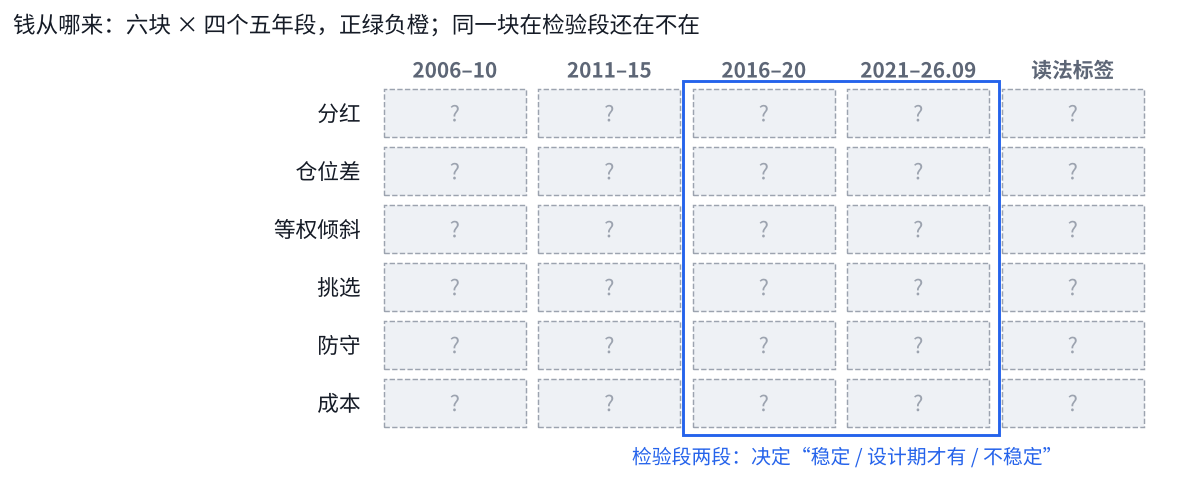
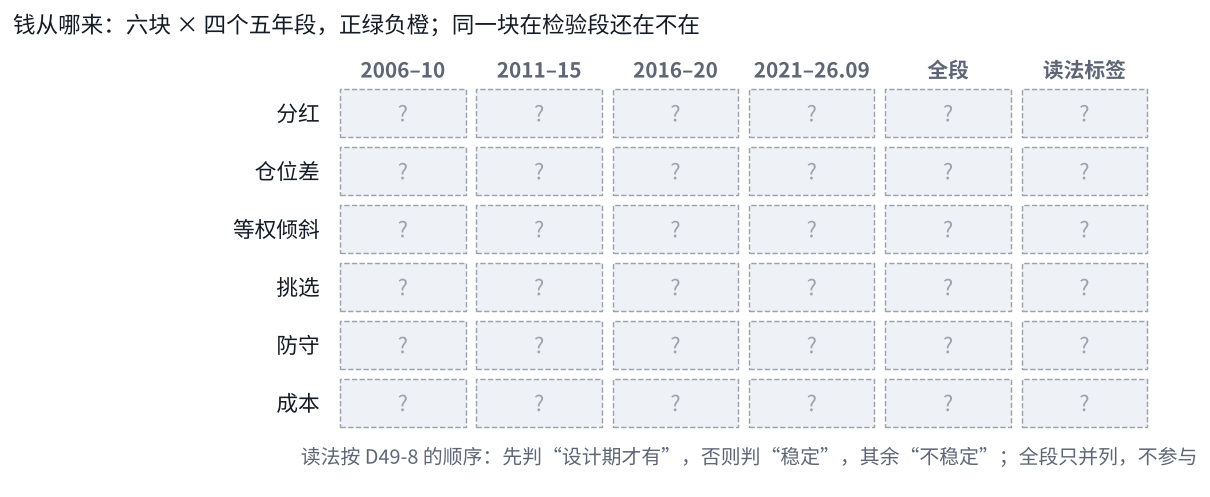
v6 一次性检验报告骨架 0.3：按 Reviewer #387 四条 Should-fix 改
- 三版结论句互斥（D50-2）；第 3 节读法按 D49-8 顺序；加瀑布图空位、全段列
- 补回：逐年、名额拆分与美股前 3 − SPX、重新起步与连续运行差异、随机每月比例、三个影子、两条暂停线、欧洲“支持”定义
- o4 检验段不再画高度 12 的占位柱；连续性版组件标题改正
- 合并 claude/v6-health-final（体检 1.3）

Claude-Session: https://claude.ai/code/session_01D95uZGmhdA65bQR8bYU8L8

diff --git a/docs/artifact/v6-oneshot/index.html b/docs/artifact/v6-oneshot/index.html
@@ -1660,7 +1660,7 @@ ol.flow.f-compact .fl-d strong { color: var(--muted); font-weight: 600; }
 <nav class="toc" aria-label="目录">
   <a class="back" href="https://claude.ai/artifact/17bW2rKeeBheRFfhnjsrSU">← Owner 看板</a>
   <div class="toc-title">目录</div>
-  <ol><li class="l2"><a href="#0-开考前要齐的五件事-两件已定-三件待合入或待你批准">0. 开考前要齐的五件事</a></li><li class="l2"><a href="#1-过不过-只看检验段四条判据-结论句三版已预写">1. 过不过</a></li><li class="l2"><a href="#2-结论稳不稳-稳健性-8-项-同结构随机-能买到的池子-都只报告">2. 结论稳不稳</a></li><li class="l2"><a href="#3-钱从哪来-六块拆账按四个五年段看-每块贴-稳定-设计期才有-不稳定">3. 钱从哪来</a></li><li class="l2"><a href="#4-挑选赚的是谁-防守赚的是哪几次-看前-10-名占多少-逐次列紧张段">4. 挑选赚的是谁、防守赚的是哪几次</a></li><li class="l2"><a href="#5-和别人比-八条线-检验段为主-全段并列">5. 和别人比</a></li><li class="l2"><a href="#6-性格-2006-2026-一条线走下来-几次急跌各怎样">6. 性格</a></li><li class="l2"><a href="#7-四种行情-任意起点-全段-2006-2026">7. 四种行情、任意起点</a></li><li class="l2"><a href="#8-预测准不准-检验段逐项对账-不判过不过">8. 预测准不准</a></li><li class="l2"><a href="#9-连续性版换不换-两个条件都满足才换">9. 连续性版换不换</a></li><li class="l2"><a href="#10-接下来-按结论三级走-三条路事先写好">10. 接下来</a></li></ol>
+  <ol><li class="l2"><a href="#0-开考前要齐的六件事-两件已定-四件待合入或待你定">0. 开考前要齐的六件事</a></li><li class="l2"><a href="#1-过不过-只看检验段四条判据-结论句三版已预写">1. 过不过</a></li><li class="l2"><a href="#2-结论稳不稳-稳健性-8-项-同结构随机-能买到的池子-都只报告">2. 结论稳不稳</a></li><li class="l2"><a href="#3-钱从哪来-六块拆账按四个五年段看-每块贴-稳定-设计期才有-不稳定">3. 钱从哪来</a></li><li class="l2"><a href="#4-挑选赚的是谁-防守赚的是哪几次-看前-10-名占多少-逐次列紧张段">4. 挑选赚的是谁、防守赚的是哪几次</a></li><li class="l2"><a href="#5-和别人比-八条线-检验段为主-全段并列">5. 和别人比</a></li><li class="l2"><a href="#6-性格-2006-2026-一条线走下来-几次急跌各怎样">6. 性格</a></li><li class="l2"><a href="#7-四种行情-任意起点-全段-2006-2026">7. 四种行情、任意起点</a></li><li class="l2"><a href="#8-预测准不准-检验段逐项对账-不判过不过">8. 预测准不准</a></li><li class="l2"><a href="#9-连续性版换不换-两个条件都满足才换">9. 连续性版换不换</a></li><li class="l2"><a href="#10-接下来-按结论三级走-三条路事先写好">10. 接下来</a></li></ol>
 </nav>
 <main>
 <header class="top">
@@ -1671,12 +1671,13 @@ ol.flow.f-compact .fl-d strong { color: var(--muted); font-weight: 600; }
 <section class="intro status"><p class="kv"><span class="kv-k"><strong>项目愿景</strong></span><span class="kv-v">　在动态周期内，从多类资产里选出 Top N 强势 ETF 轮动持有，获得超额收益、稳定跑赢被动基准，同时把回撤控制住。</span></p>
 <div class="hero"><div class="hero-g n1"><div class="hz verdict2 t-bad"><div class="hz-l">结论</div><div class="hz-hd">跑完从三版预写结论句里选一版，只填数：通过、通过（有条件）、不通过。</div></div><div class="hz ask"><div class="hz-l">需要你</div><div class="hq-b">批准一次性检验（2016-01 → 2026-09，只跑一次）。开考前还要 D49、D50 和 #375、#377 合入。</div></div><div class="hz eng"><span class="eng-ok">✓</span><span class="hz-l">进度</span><span class="eng-d">骨架：11 节的结构、图和读法已定；还没开考，页面上没有任何 2016 年以后的数字。</span></div></div></div>
 
-<nav aria-label="故事主线" class="sl-spine"><div class="sl-sp-h">这份报告的故事主线：从“过没过”读到“钱从哪来、在检验段还在不在”</div><div class="sl-sp-r"><a class="sl-sp-i t-ok" href="#sec-0-开考前要齐的五件事-两件已定-三件待合入或待你批准" title="什么都齐了才能跑？"><span class="sl-sp-k"></span><span class="sl-sp-s">开考前提</span><span class="sl-sp-st">在做</span></a><a class="sl-sp-i t-ok" href="#sec-1-过不过-只看检验段四条判据-结论句三版已预写" title="一次性检验过没过？"><span class="sl-sp-k"></span><span class="sl-sp-s">过不过</span><span class="sl-sp-st">待填</span></a><a class="sl-sp-i t-ok" href="#sec-2-结论稳不稳-稳健性-8-项-同结构随机-能买到的池子-都只报告" title="换个成本、晚一天下单、去掉最赚钱的几只，结论还在不在？"><span class="sl-sp-k"></span><span class="sl-sp-s">稳不稳</span><span class="sl-sp-st">待填</span></a><a class="sl-sp-i t-ok" href="#sec-3-钱从哪来-六块拆账按四个五年段看-每块贴-稳定-设计期才有-不稳定" title="v6 赚的是挑选、防守，还是美股放 60%、人民币贬值？"><span class="sl-sp-k"></span><span class="sl-sp-s">钱从哪来</span><span class="sl-sp-st">待填</span></a><a class="sl-sp-i t-ok" href="#sec-4-挑选赚的是谁-防守赚的是哪几次-看前-10-名占多少-逐次列紧张段" title="挑选的钱是不是集中在几只上？防守在哪几次真帮上了忙？"><span class="sl-sp-k"></span><span class="sl-sp-s">挑选与防守</span><span class="sl-sp-st">待填</span></a><a class="sl-sp-i t-ok" href="#sec-5-和别人比-八条线-检验段为主-全段并列" title="检验段里 v6 和 A1、A2、K2A、现行配置、基准比，站在哪？"><span class="sl-sp-k"></span><span class="sl-sp-s">和别人比</span><span class="sl-sp-st">待填</span></a><a class="sl-sp-i t-ok" href="#sec-6-性格-2006-2026-一条线走下来-几次急跌各怎样" title="一直拿着的人，20 年里会经历什么？"><span class="sl-sp-k"></span><span class="sl-sp-s">性格</span><span class="sl-sp-st">待填</span></a><a class="sl-sp-i t-ok" href="#sec-7-四种行情-任意起点-全段-2006-2026" title="牛熊里各赚亏多少？什么时候买进来会输？"><span class="sl-sp-k"></span><span class="sl-sp-s">行情与起点</span><span class="sl-sp-st">待填</span></a><a class="sl-sp-i t-ok" href="#sec-8-预测准不准-检验段逐项对账-不判过不过" title="事先估的每一项，检验段落在范围里吗？"><span class="sl-sp-k"></span><span class="sl-sp-s">预测</span><span class="sl-sp-st">待填</span></a><a class="sl-sp-i t-ok" href="#sec-9-连续性版换不换-两个条件都满足才换" title="挑战者在检验段赢了吗？"><span class="sl-sp-k"></span><span class="sl-sp-s">连续性版</span><span class="sl-sp-st">待填</span></a><a class="sl-sp-i t-ok" href="#sec-10-接下来-按结论三级走-三条路事先写好" title="结论出来以后做什么？"><span class="sl-sp-k"></span><span class="sl-sp-s">接下来</span><span class="sl-sp-st">待填</span></a></div></nav></section>
-<section id="sec-0-开考前要齐的五件事-两件已定-三件待合入或待你批准"><h2 id="0-开考前要齐的五件事-两件已定-三件待合入或待你批准"><span class="num">00</span>开考前要齐的五件事：两件已定，三件待合入或待你批准</h2>
-<p class="memo"><strong>D49（全段只报告）和 D50（稳健性怎么降级）已定；还差你批准、代码冻结、Dev 按 D49 备好代码。</strong></p>
-<div class="table-wrap"><div class="comp f-todos-wrap" data-lint="ref"><div class="f-td-pg"><b>2 / 5</b><span>已完成</span><span class="f-td-bar"><i class="on"></i><i class="on"></i><i class=""></i><i class=""></i><i class=""></i></span></div><div class="f-tds"><div class="f-td done"><span class="f-td-n">✓</span><div class="f-td-b"><div class="f-td-h"><b>D49 全段窗口只报告、拆账口径写死</b></div><div class="f-td-m"><span class="f-td-no">#1</span><span class="f-td-w">Reviewer</span><span class="f-td-w">Manager</span></div><div class="f-td-r">Reviewer 复核第 2 稿无问题，待合入</div></div></div><div class="f-td done"><span class="f-td-n">✓</span><div class="f-td-b"><div class="f-td-h"><b>D50 “很敏感”和“降一级”的定义</b></div><div class="f-td-m"><span class="f-td-no">#2</span><span class="f-td-w">Owner</span></div><div class="f-td-r">你 11-26 同意两项都选 A；待 Reviewer 核对、合入</div></div></div><div class="f-td"><span class="f-td-n">3</span><div class="f-td-b"><div class="f-td-h"><b>批准一次性检验</b></div><div class="f-td-m"><span class="f-td-no">#3</span><span class="f-td-w">Owner</span></div><div class="f-td-r">2016-01 → 2026-09，只跑一次，判定只看检验段</div></div></div><div class="f-td"><span class="f-td-n">4</span><div class="f-td-b"><div class="f-td-h"><b>#375、#377 签收合入，代码冻结</b></div><div class="f-td-m"><span class="f-td-no">#4</span><span class="f-td-w">Reviewer</span><span class="f-td-w">Manager</span></div><div class="f-td-r">等 Dev 交同结构随机和急跌仓位</div></div></div><div class="f-td"><span class="f-td-n">5</span><div class="f-td-b"><div class="f-td-h"><b>Dev 按 D49 备好代码</b></div><div class="f-td-m"><span class="f-td-no">#5</span><span class="f-td-w">Dev</span></div><div class="f-td-r">含现行配置 2006–2026 面板、A1 / A2 账本衔接</div></div></div></div></div></div>
+<nav aria-label="故事主线" class="sl-spine"><div class="sl-sp-h">这份报告的故事主线：从“过没过”读到“钱从哪来、在检验段还在不在”</div><div class="sl-sp-r"><a class="sl-sp-i t-ok" href="#sec-0-开考前要齐的六件事-两件已定-四件待合入或待你定" title="什么都齐了才能跑？"><span class="sl-sp-k"></span><span class="sl-sp-s">开考前提</span><span class="sl-sp-st">在做</span></a><a class="sl-sp-i t-ok" href="#sec-1-过不过-只看检验段四条判据-结论句三版已预写" title="一次性检验过没过？"><span class="sl-sp-k"></span><span class="sl-sp-s">过不过</span><span class="sl-sp-st">待填</span></a><a class="sl-sp-i t-ok" href="#sec-2-结论稳不稳-稳健性-8-项-同结构随机-能买到的池子-都只报告" title="换个成本、晚一天下单、去掉最赚钱的几只，结论还在不在？"><span class="sl-sp-k"></span><span class="sl-sp-s">稳不稳</span><span class="sl-sp-st">待填</span></a><a class="sl-sp-i t-ok" href="#sec-3-钱从哪来-六块拆账按四个五年段看-每块贴-稳定-设计期才有-不稳定" title="v6 赚的是挑选、防守，还是美股放 60%、人民币贬值？"><span class="sl-sp-k"></span><span class="sl-sp-s">钱从哪来</span><span class="sl-sp-st">待填</span></a><a class="sl-sp-i t-ok" href="#sec-4-挑选赚的是谁-防守赚的是哪几次-看前-10-名占多少-逐次列紧张段" title="挑选的钱是不是集中在几只上？防守在哪几次真帮上了忙？"><span class="sl-sp-k"></span><span class="sl-sp-s">挑选与防守</span><span class="sl-sp-st">待填</span></a><a class="sl-sp-i t-ok" href="#sec-5-和别人比-八条线-检验段为主-全段并列" title="检验段里 v6 和 A1、A2、K2A、现行配置、基准比，站在哪？"><span class="sl-sp-k"></span><span class="sl-sp-s">和别人比</span><span class="sl-sp-st">待填</span></a><a class="sl-sp-i t-ok" href="#sec-6-性格-2006-2026-一条线走下来-几次急跌各怎样" title="一直拿着的人，20 年里会经历什么？"><span class="sl-sp-k"></span><span class="sl-sp-s">性格</span><span class="sl-sp-st">待填</span></a><a class="sl-sp-i t-ok" href="#sec-7-四种行情-任意起点-全段-2006-2026" title="牛熊里各赚亏多少？什么时候买进来会输？"><span class="sl-sp-k"></span><span class="sl-sp-s">行情与起点</span><span class="sl-sp-st">待填</span></a><a class="sl-sp-i t-ok" href="#sec-8-预测准不准-检验段逐项对账-不判过不过" title="事先估的每一项，检验段落在范围里吗？"><span class="sl-sp-k"></span><span class="sl-sp-s">预测</span><span class="sl-sp-st">待填</span></a><a class="sl-sp-i t-ok" href="#sec-9-连续性版换不换-两个条件都满足才换" title="挑战者在检验段赢了吗？"><span class="sl-sp-k"></span><span class="sl-sp-s">连续性版</span><span class="sl-sp-st">待填</span></a><a class="sl-sp-i t-ok" href="#sec-10-接下来-按结论三级走-三条路事先写好" title="结论出来以后做什么？"><span class="sl-sp-k"></span><span class="sl-sp-s">接下来</span><span class="sl-sp-st">待填</span></a></div></nav></section>
+<section id="sec-0-开考前要齐的六件事-两件已定-四件待合入或待你定"><h2 id="0-开考前要齐的六件事-两件已定-四件待合入或待你定"><span class="num">00</span>开考前要齐的六件事：两件已定，四件待合入或待你定</h2>
+<p class="memo"><strong>D49（全段只报告）和 D50（稳健性怎么降级）已定；还差你批准、你定 D50-4、代码冻结、Dev 按 D49 备好代码。</strong></p>
+<div class="table-wrap"><div class="comp f-todos-wrap" data-lint="ref"><div class="f-td-pg"><b>2 / 6</b><span>已完成</span><span class="f-td-bar"><i class="on"></i><i class="on"></i><i class=""></i><i class=""></i><i class=""></i><i class=""></i></span></div><div class="f-tds"><div class="f-td done"><span class="f-td-n">✓</span><div class="f-td-b"><div class="f-td-h"><b>D49 全段窗口只报告、拆账口径写死</b></div><div class="f-td-m"><span class="f-td-no">#1</span><span class="f-td-w">Reviewer</span><span class="f-td-w">Manager</span></div><div class="f-td-r">Reviewer 复核第 2 稿无问题，待合入</div></div></div><div class="f-td done"><span class="f-td-n">✓</span><div class="f-td-b"><div class="f-td-h"><b>D50 “很敏感”和“降一级”的定义</b></div><div class="f-td-m"><span class="f-td-no">#2</span><span class="f-td-w">Owner</span></div><div class="f-td-r">你 11-26 同意两项都选 A；待 Reviewer 核对、合入</div></div></div><div class="f-td"><span class="f-td-n">3</span><div class="f-td-b"><div class="f-td-h"><b>批准一次性检验</b></div><div class="f-td-m"><span class="f-td-no">#3</span><span class="f-td-w">Owner</span></div><div class="f-td-r">2016-01 → 2026-09，只跑一次，判定只看检验段</div></div></div><div class="f-td"><span class="f-td-n">4</span><div class="f-td-b"><div class="f-td-h"><b>#375、#377 签收合入，代码冻结</b></div><div class="f-td-m"><span class="f-td-no">#4</span><span class="f-td-w">Reviewer</span><span class="f-td-w">Manager</span></div><div class="f-td-r">等 Dev 交同结构随机和急跌仓位</div></div></div><div class="f-td"><span class="f-td-n">5</span><div class="f-td-b"><div class="f-td-h"><b>Dev 按 D49 备好代码</b></div><div class="f-td-m"><span class="f-td-no">#5</span><span class="f-td-w">Dev</span></div><div class="f-td-r">含现行配置 2006–2026 面板、A1 / A2 账本衔接</div></div></div><div class="f-td"><span class="f-td-n">6</span><div class="f-td-b"><div class="f-td-h"><b>D50-4：有条件再遇欧洲“不支持”怎么办</b></div><div class="f-td-m"><span class="f-td-no">#6</span><span class="f-td-w">Owner</span></div><div class="f-td-r">停在有条件，或再降一级 = 不通过</div></div></div></div></div></div>
 <ul class="points">
 <li><strong>D50 定了什么</strong>：稳健性 8 项里任何一项改动后四条判据的总结论翻转，记“很敏感”；主判通过而有一项很敏感，结论是“通过（有条件）”，照常进 6 个月模拟盘，页首写明条件。</li>
+<li><strong>判定口径与连续运行</strong>：若冻结代码的检验段是 2016-01 重新起步，报告另列一行：连续运行截出的 2016 年以后那段和判定口径差多少、为什么（D49-1）。</li>
 <li><strong>成本加倍最可能触发降级</strong>：设计期成本每年约 1.5 点，判据 ④ 的余量不到这个数时，成本加倍就会让它翻转。</li>
 </ul>
 <a class="sl-next" href="#sec-1-过不过-只看检验段四条判据-结论句三版已预写"><span class="sl-nl">所以</span><span class="sl-nt">前提齐了才跑；跑完先看的，是过没过</span><span class="sl-ng">01 过不过 →</span></a>
@@ -1684,31 +1685,35 @@ ol.flow.f-compact .fl-d strong { color: var(--muted); font-weight: 600; }
 <section id="sec-1-过不过-只看检验段四条判据-结论句三版已预写"><h2 id="1-过不过-只看检验段四条判据-结论句三版已预写"><span class="num">01</span>过不过：只看检验段四条判据，结论句三版已预写</h2>
 <p class="memo"><strong>判定只看检验段 2016-01 <span class="arr">→</span> 2026-09、四条判据全部满足；全段和设计期都不参与判定（冻结稿 §5，D49-1）。</strong></p>
 <div class="table-wrap"><div class="comp comp-闸门格" data-lint="ref"><div class="comp-h">四条判据：检验段一列判定，设计期两段作参照</div><div class="gg" style="--gg-n:3"><div class="gg-r gg-hd"><span>判据</span><span class="">2006–10</span><span class="">2011–15</span><span class="gg-main">2016-01 → 2026-09</span></div><div class="gg-r"><div class="gg-k"><b>① 回撤</b><span>门槛 ≤ 40% · 事先机会 80%</span></div><div class="gg-c ok"><b class="num">−25.0%</b><em>✓ 过</em></div><div class="gg-c ok"><b class="num">−28.7%</b><em>✓ 过</em></div><div class="gg-c gg-main"><em>待填</em></div></div><div class="gg-r"><div class="gg-k"><b>② 防守保费</b><span>门槛 ≤ 4 点 · 事先机会 85%</span></div><div class="gg-c ok"><b>0.0 点</b><em>✓ 过</em></div><div class="gg-c ok"><b>1.4 点</b><em>✓ 过</em></div><div class="gg-c gg-main"><em>待填</em></div></div><div class="gg-r"><div class="gg-k"><b>③ 对 K2A</b><span>门槛 年化 ÷ 回撤高于 K2A · 事先机会 60%</span></div><div class="gg-c ok"><b>0.74 对 0.59</b><em>✓ 过</em></div><div class="gg-c no"><b>0.42 对 0.57</b><em>✗ 不过</em></div><div class="gg-c gg-main"><em>待填</em></div></div><div class="gg-r"><div class="gg-k"><b>④ 对同仓位基准</b><span>门槛 ≥ 0 · 事先机会 50%</span></div><div class="gg-c ok"><b>+5.2 点</b><em>✓ 过</em></div><div class="gg-c no"><b>−0.1 点</b><em>✗ 不过</em></div><div class="gg-c gg-main"><em>待填</em></div></div><div class="gg-r gg-tot"><div class="gg-k"><b>四条全过</b><span>门槛 全部满足才通过 · 事先机会 30%</span></div><div class="gg-c ok"><em>✓ 过</em></div><div class="gg-c no"><em>✗ 不过</em></div><div class="gg-c gg-main"><em>待填</em></div></div></div></div></div>
-<div class="table-wrap"><table class="deflist" data-lint="ref">
+<div class="table-wrap"><table>
 <thead>
 <tr>
 <th>结论</th>
-<th>预写的页首结论句（跑完选一版，只填【】）</th>
+<th>什么时候用（互斥，D50-2）</th>
+<th>预写的页首结论句（只填【】）</th>
 </tr>
 </thead>
 <tbody>
 <tr>
 <td class="k"><span class="pill good">通过</span></td>
-<td class="detail">一次性检验通过：四条判据都过；每年【X】%，比同仓位基准多【Y】点，最大回撤【Z】%。下一步 6 个月模拟盘</td>
+<td>四条都过，S1–S8 没有一项翻转</td>
+<td><b>四条判据都过；每年【X】%，比同仓位基准多【Y】点，回撤【Z】%</b></td>
 </tr>
 <tr>
 <td><span class="pill good">通过</span>（有条件）</td>
-<td class="detail"><b>通过（有条件）：四条判据都过，但对【S?】很敏感，【判据】翻转；照常进模拟盘，先盯这一项</b></td>
+<td>四条都过，至少一项翻转</td>
+<td><b>四条都过；【S?】在【判据】翻转，差【?】（每一项并列）</b></td>
 </tr>
 <tr>
 <td class="k"><span class="pill bad">不通过</span></td>
-<td class="detail">一次性检验不通过：判据【编号】没过；每年【X】%，比同仓位基准【多 / 少】【Y】点。按冻结稿如实记录并关闭</td>
+<td>四条没有全过；改完能过也不升档</td>
+<td><b>判据【编号】没过；每年【X】%，比同仓位基准【多 / 少】【Y】点</b></td>
 </tr>
 </tbody>
 </table></div>
 <ul class="points">
 <li><strong>读这块</strong>：框住的是检验段一列，只有它决定结论；左边两列是设计期参照，后五年 ③④ 已经不过。</li>
-<li><strong>不加形容词</strong>：通过版本不写“稳定跑赢”，不通过版本不写“接近通过”；差多少直接写数字。</li>
+<li><strong>不加形容词</strong>：通过版本不写“稳定跑赢”，不通过版本不写“接近通过”；差多少直接写数字。翻转只在检验段、指数池的主判上判（D50-1）。</li>
 </ul>
 <a class="sl-next" href="#sec-2-结论稳不稳-稳健性-8-项-同结构随机-能买到的池子-都只报告"><span class="sl-nl">所以</span><span class="sl-nt">过没过只是一个字；下一节看这个字稳不稳</span><span class="sl-ng">02 结论稳不稳 →</span></a>
 </section>
@@ -1765,7 +1770,7 @@ ol.flow.f-compact .fl-d strong { color: var(--muted); font-weight: 600; }
 <tr>
 <td class="k">随机</td>
 <td>同结构随机 1000 次（种子 20261122）</td>
-<td>v6 在随机分布里的百分位</td>
+<td>百分位、每月跑赢随机中位数的比例；组合和两个名额（设计期：第 96.4、54%）</td>
 <td class="r-status"><span class="pill warn">待填</span></td>
 </tr>
 <tr>
@@ -1785,7 +1790,8 @@ ol.flow.f-compact .fl-d strong { color: var(--muted); font-weight: 600; }
 </section>
 <section id="sec-3-钱从哪来-六块拆账按四个五年段看-每块贴-稳定-设计期才有-不稳定"><h2 id="3-钱从哪来-六块拆账按四个五年段看-每块贴-稳定-设计期才有-不稳定"><span class="num">03</span>钱从哪来：六块拆账按四个五年段看，每块贴“稳定 / 设计期才有 / 不稳定”</h2>
 <p class="memo"><strong>六块相加 = v6 比 BM-主多出的部分；全段只放在分段旁边，不单独引用（D49）。</strong></p>
-<figure><img alt="六块 × 四个五年段：检验段两段决定每一块是稳定、设计期才有还是不稳定" src="../../assets/v6-oneshot/o3-sources.png"/></figure>
+<figure><img alt="检验段瀑布图的空位：从 BM-主走到 v6 净，六块各加减多少" src="../../assets/v6-oneshot/o3w-waterfall.png"/></figure>
+<figure><img alt="六块 × 四个五年段 + 全段：读法按 D49-8 顺序贴标签" src="../../assets/v6-oneshot/o3-sources.png"/></figure>
 <div class="fold"><button aria-expanded="false" class="fold-h" type="button"><span aria-hidden="true" class="chev">▸</span><span>六块 × 四段的空表（跑完填数）</span></button><div class="fold-b" hidden="">
 <div class="table-wrap"><table>
 <thead>
@@ -1795,12 +1801,14 @@ ol.flow.f-compact .fl-d strong { color: var(--muted); font-weight: 600; }
 <th>2011–15</th>
 <th>2016–20</th>
 <th>2021-01 → 2026-09</th>
+<th>全段</th>
 <th class="h-take rh-concl">读法标签</th>
 </tr>
 </thead>
 <tbody>
 <tr>
 <td class="k">分红</td>
+<td>待填</td>
 <td>待填</td>
 <td>待填</td>
 <td>待填</td>
@@ -1813,10 +1821,12 @@ ol.flow.f-compact .fl-d strong { color: var(--muted); font-weight: 600; }
 <td>待填</td>
 <td>待填</td>
 <td>待填</td>
+<td>待填</td>
 <td class="c-take"><b>待填</b></td>
 </tr>
 <tr>
 <td class="k">等权倾斜</td>
+<td>待填</td>
 <td>待填</td>
 <td>待填</td>
 <td>待填</td>
@@ -1829,10 +1839,12 @@ ol.flow.f-compact .fl-d strong { color: var(--muted); font-weight: 600; }
 <td>待填</td>
 <td>待填</td>
 <td>待填</td>
+<td>待填</td>
 <td class="c-take"><b>待填</b></td>
 </tr>
 <tr>
 <td class="k">防守</td>
+<td>待填</td>
 <td>待填</td>
 <td>待填</td>
 <td>待填</td>
@@ -1845,15 +1857,17 @@ ol.flow.f-compact .fl-d strong { color: var(--muted); font-weight: 600; }
 <td>待填</td>
 <td>待填</td>
 <td>待填</td>
+<td>待填</td>
 <td class="c-take"><b>待填</b></td>
 </tr>
 </tbody>
 </table></div>
+<p class="table-note note">逐年（20 个完整自然年 + 2026 年前 9 个月）另附一张同样的表；A 股名额、美股名额各一张；美股另报“前 3 − SPX”（D48-3）和汇率层。</p>
 </div></div>
 <ul class="points">
 <li><strong>读法标签按顺序判</strong>（D49-8）：设计期为正、检验段为负或不到 0.5 点 <span class="arr">→</span> 设计期才有；否则四段至少三段同号且检验段与设计期同号 <span class="arr">→</span> 稳定；其余 <span class="arr">→</span> 不稳定。</li>
-<li><strong>汇率单独看</strong>：美股名额的人民币收益减美元收益，另报，不进合计（D49-3）。</li>
-<li><strong>图</strong>：检验段瀑布图；上面这张格子正绿负橙；A 股、美股名额各一张。</li>
+<li><strong>六块首尾相接</strong>：相加 = v6 净 − BM-主全收益；第 ③ 块减去的，就是第 ② 块终点的价格 BM-同仓位（D49-3）。</li>
+<li><strong>汇率单独看</strong>：美股名额的人民币收益减美元收益，另报，不进合计，也不进瀑布图。</li>
 </ul>
 <a class="sl-next" href="#sec-4-挑选赚的是谁-防守赚的是哪几次-看前-10-名占多少-逐次列紧张段"><span class="sl-nl">所以</span><span class="sl-nt">挑选和防守各自是哪几笔赚的？</span><span class="sl-ng">04 挑选赚的是谁、防守赚的是哪几次 →</span></a>
 </section>
@@ -2096,7 +2110,7 @@ ol.flow.f-compact .fl-d strong { color: var(--muted); font-weight: 600; }
 </section>
 <section id="sec-9-连续性版换不换-两个条件都满足才换"><h2 id="9-连续性版换不换-两个条件都满足才换"><span class="num">09</span>连续性版换不换：两个条件都满足才换</h2>
 <p class="memo"><strong>连续性版整套也过四条判据，且检验段 A 股名额里它比 12−1 的月度差均值为正，才在模拟盘换上；要给 A 股挑选“报钱”还需 t ≥ 2.24（冻结稿 §5.3）。</strong></p>
-<div class="table-wrap"><div class="comp comp-闸门格" data-lint="ref"><div class="comp-h">连续性版：设计期全段四条都过；检验段一列开考后填</div><div class="gg" style="--gg-n:3"><div class="gg-r gg-hd"><span>判据</span><span class="">2006–10</span><span class="">2011–15</span><span class="gg-main">2016-01 → 2026-09</span></div><div class="gg-r"><div class="gg-k"><b>① 回撤</b><span>门槛 ≤ 40%</span></div><div class="gg-c ok"><b class="num">−27.5%</b><em>✓ 过</em></div><div class="gg-c ok"><b class="num">−24.9%</b><em>✓ 过</em></div><div class="gg-c gg-main"><em>待填</em></div></div><div class="gg-r"><div class="gg-k"><b>② 防守保费</b><span>门槛 ≤ 4 点</span></div><div class="gg-c ok"><b>0.0 点</b><em>✓ 过</em></div><div class="gg-c ok"><b>1.2 点</b><em>✓ 过</em></div><div class="gg-c gg-main"><em>待填</em></div></div><div class="gg-r"><div class="gg-k"><b>③ 对 K2A</b><span>门槛 高于 K2A</span></div><div class="gg-c ok"><b>0.65 对 0.59</b><em>✓ 过</em></div><div class="gg-c no"><b>0.55 对 0.57</b><em>✗ 不过</em></div><div class="gg-c gg-main"><em>待填</em></div></div><div class="gg-r"><div class="gg-k"><b>④ 对同仓位基准</b><span>门槛 ≥ 0</span></div><div class="gg-c ok"><b>+4.6 点</b><em>✓ 过</em></div><div class="gg-c ok"><b>+1.4 点</b><em>✓ 过</em></div><div class="gg-c gg-main"><em>待填</em></div></div><div class="gg-r gg-tot"><div class="gg-k"><b>四条全过</b><span>门槛 全部满足才通过</span></div><div class="gg-c ok"><em>✓ 过</em></div><div class="gg-c no"><em>✗ 不过</em></div><div class="gg-c gg-main"><em>待填</em></div></div></div></div></div>
+<div class="table-wrap"><div class="comp comp-闸门格" data-lint="ref"><div class="comp-h">连续性版：设计期后五年 ③ 不过；检验段一列开考后填</div><div class="gg" style="--gg-n:3"><div class="gg-r gg-hd"><span>判据</span><span class="">2006–10</span><span class="">2011–15</span><span class="gg-main">2016-01 → 2026-09</span></div><div class="gg-r"><div class="gg-k"><b>① 回撤</b><span>门槛 ≤ 40%</span></div><div class="gg-c ok"><b class="num">−27.5%</b><em>✓ 过</em></div><div class="gg-c ok"><b class="num">−24.9%</b><em>✓ 过</em></div><div class="gg-c gg-main"><em>待填</em></div></div><div class="gg-r"><div class="gg-k"><b>② 防守保费</b><span>门槛 ≤ 4 点</span></div><div class="gg-c ok"><b>0.0 点</b><em>✓ 过</em></div><div class="gg-c ok"><b>1.2 点</b><em>✓ 过</em></div><div class="gg-c gg-main"><em>待填</em></div></div><div class="gg-r"><div class="gg-k"><b>③ 对 K2A</b><span>门槛 高于 K2A</span></div><div class="gg-c ok"><b>0.65 对 0.59</b><em>✓ 过</em></div><div class="gg-c no"><b>0.55 对 0.57</b><em>✗ 不过</em></div><div class="gg-c gg-main"><em>待填</em></div></div><div class="gg-r"><div class="gg-k"><b>④ 对同仓位基准</b><span>门槛 ≥ 0</span></div><div class="gg-c ok"><b>+4.6 点</b><em>✓ 过</em></div><div class="gg-c ok"><b>+1.4 点</b><em>✓ 过</em></div><div class="gg-c gg-main"><em>待填</em></div></div><div class="gg-r gg-tot"><div class="gg-k"><b>四条全过</b><span>门槛 全部满足才通过</span></div><div class="gg-c ok"><em>✓ 过</em></div><div class="gg-c no"><em>✗ 不过</em></div><div class="gg-c gg-main"><em>待填</em></div></div></div></div></div>
 <ul class="points">
 <li><strong>第二个条件</strong>：检验段 A 股名额里，连续性版比 12−1 的月度差均值要 &gt; 0；给 A 股挑选“报钱”还要 t ≥ 2.24。两个数开考后填。</li>
 <li><strong>设计期参照</strong>：后五年 ③ 差一点（0.55 对 0.57），比 v6（0.42）好；设计期好一点不构成换上的理由。</li>
@@ -2106,7 +2120,10 @@ ol.flow.f-compact .fl-d strong { color: var(--muted); font-weight: 600; }
 <section id="sec-10-接下来-按结论三级走-三条路事先写好"><h2 id="10-接下来-按结论三级走-三条路事先写好"><span class="num">10</span>接下来：按结论三级走，三条路事先写好</h2>
 <p class="memo"><strong>通过和通过（有条件）都进 6 个月模拟盘，上线前做欧洲检验；不通过就如实记录并关闭。</strong></p>
 <div class="table-wrap"><div class="comp comp-载体" data-lint="ref"><div class="comp-h">三种结论各走哪条路</div><div class="carriers"><div class="cr-r t-good"><div class="cr-k">通过</div><div class="cr-cs"><span class="cr-c">6 个月前向模拟盘</span><span class="cr-c">小资金起步另批</span><span class="cr-c">上线前欧洲检验</span></div></div><div class="cr-r t-warn"><div class="cr-k">通过（有条件）</div><div class="cr-cs"><span class="cr-c">6 个月前向模拟盘</span><span class="cr-c">页首写明条件</span><span class="cr-c">每月单列对应的量</span><span class="cr-c">小资金起步另批</span></div></div><div class="cr-r t-bad"><div class="cr-k">不通过</div><div class="cr-cs"><span class="cr-c">如实记录</span><span class="cr-c">关闭 v6</span><span class="cr-c">新想法注明第 5 次尝试</span></div></div></div></div></div>
-<ul>
+<ul class="points">
+<li><strong>模拟盘里同时只记录、不交易的三个影子</strong>（冻结稿 §7）：结构市才挑选、12−1 与连续性版各一半、连续性版（检验后没换上时）。</li>
+<li><strong>两条暂停线</strong>：模拟盘跌破 60 万；或 6 个月对同仓位基准累计落后超过 6 点。碰到就暂停并报告你。</li>
+<li><strong>欧洲检验怎么记</strong>：挑选（前 3 对同结构等权）为正、且防守保费不超过 4 点，记“支持”；否则降一级（D50-4），上线前你另批。</li>
 <li><strong>三种结论都要写</strong>：第 3 节哪几块“稳定”。钱若主要来自仓位差或汇率，说明赚的是“美股放 <span class="num">60%</span>”，更简单的配置也能拿到；挑选和防守“稳定”，才说明每月四步的规则本身有用。</li>
 </ul>
 <div class="fold"><button aria-expanded="false" class="fold-h" type="button"><span aria-hidden="true" class="chev">▸</span><span>工程用：输入文件和 PR（跑完填）</span></button><div class="fold-b" hidden="">

diff --git a/scripts/v6_report/charts_oneshot_skeleton.py b/scripts/v6_report/charts_oneshot_skeleton.py
@@ -52,12 +52,23 @@ save(fig, 'o2-robust.png')
 
 # ---------- o3 六块 × 四段 ----------
 fig, ax = plt.subplots(figsize=(11.5, 4.4))
-pending_grid(ax, ['分红', '仓位差', '等权倾斜', '挑选', '防守', '成本'], ['2006–10', '2011–15', '2016–20', '2021–26.09', '读法标签'])
-ax.add_patch(Rectangle((2 - .06, -5.55), 2.04, 6.1, fc='none', ec=BLUE, lw=1.6))
-ax.text(3, -6.05, '检验段两段：决定“稳定 / 设计期才有 / 不稳定”', ha='center', color=BLUE, fontsize=11)
+pending_grid(ax, ['分红', '仓位差', '等权倾斜', '挑选', '防守', '成本'], ['2006–10', '2011–15', '2016–20', '2021–26.09', '全段', '读法标签'])
+ax.text(3, -6.05, '读法按 D49-8 的顺序：先判“设计期才有”，否则判“稳定”，其余“不稳定”；全段只并列，不参与', ha='center', color=MUTED, fontsize=11)
 ax.set_ylim(-6.4, 1.2)
 ax.set_title('钱从哪来：六块 × 四个五年段，正绿负橙；同一块在检验段还在不在', fontsize=12.5, loc='left', color=INK)
 save(fig, 'o3-sources.png')
+
+# ---------- o3w 检验段瀑布图（空位） ----------
+fig, ax = plt.subplots(figsize=(11.5, 3.8))
+labs = ['BM-主\n（全收益）', '分红', '仓位差', '等权倾斜', '挑选', '防守', '成本', 'v6 净']
+for i, l in enumerate(labs):
+    ax.bar(i, 1, bottom=0, color=PEND, ec=GREY, ls='--', lw=.8)
+    ax.text(i, .5, '?', ha='center', va='center', color=GREY, fontsize=12)
+ax.set_xticks(range(len(labs))); ax.set_xticklabels(labs, fontsize=11); ax.set_yticks([]); ax.spines['left'].set_visible(False)
+ax.text(len(labs) - .5, 1.12, '汇率另报，不进瀑布图', ha='right', color=MUTED, fontsize=10.5)
+ax.set_title('检验段瀑布图：从 BM-主 走到 v6 净，六块各加减多少（开考后画）', fontsize=12.5, loc='left', color=INK)
+ax.set_ylim(0, 1.25)
+save(fig, 'o3w-waterfall.png')
 
 # ---------- o4 挑选与防守 ----------
 fig, (a, b) = plt.subplots(1, 2, figsize=(12, 4.6), gridspec_kw={'width_ratios': [1, 1.3]})
@@ -72,9 +83,8 @@ yrs = list(range(2006, 2027))
 for y in yrs:
     if y in A:
         b.bar(y - .2, A[y], .4, color=AMBER); b.bar(y + .2, U[y], .4, color=BLUE)
-    else:
-        b.bar(y, 12, .8, color=PEND, ec=GREY, ls='--', lw=.6)
-b.axvline(2015.5, color=INK, lw=1); b.text(2015.7, 12.6, TODO, color=MUTED, fontsize=10.5)
+b.axvspan(2015.5, 2026.5, color=PEND)
+b.axvline(2015.5, color=INK, lw=1); b.text(2021, 6, TODO, ha='center', color=MUTED, fontsize=11)
 b.text(2006, 12.6, '■ A 股', color=AMBER, fontsize=10.5); b.text(2008.4, 12.6, '■ 美股', color=BLUE, fontsize=10.5)
 b.set_ylim(0, 13.5); b.set_ylabel('一年里紧张的月份', color=MUTED)
 b.set_title('防守：每年紧张几个月，每一段帮了多少', fontsize=12.5, loc='left', color=INK)

diff --git a/docs/owner/v6-oneshot-report.md b/docs/owner/v6-oneshot-report.md
@@ -4,7 +4,7 @@
 
 - Project: ETF_Rotation_Quant
 - Document type: owner report（v6 一次性检验，冻结稿 §9.1 第 6 步）
-- Status: skeleton（第 0.2 版，2026-11-26）：**只有结构，没有检验段的任何数字。** 结构、图和读法在看结果之前定下，跑完只填数，不改结构、不临场造说法；确需加的内容另写 D 编号并注明“看过结果后提出”。第 0.2 版写入 D50（Owner 同意两项都选 A），改为 Owner 页面格式。
+- Status: skeleton（第 0.2 版，2026-11-26）：**只有结构，没有检验段的任何数字。** 结构、图和读法在看结果之前定下，跑完只填数，不改结构、不临场造说法；确需加的内容另写 D 编号并注明“看过结果后提出”。第 0.3 版按 Reviewer #387 四条 Should-fix 改：三版结论句互斥、第 3 节读法按 D49-8 顺序、补回第 0.1 稿掉了的空位（全段列、逐年、名额拆分、重新起步与连续运行的差异、随机每月比例、影子与暂停线、欧洲“支持”的定义）、瀑布图空位。第 0.2 版写入 D50，改为 Owner 页面格式。
 - Owner: L. Loric
 - Maintainer: Orchestrator
 - Date: 2026-11-26（Asia/Taipei）
@@ -21,11 +21,11 @@
 
 <!-- 主线：这份报告的故事主线：从“过没过”读到“钱从哪来、在检验段还在不在” -->
 
-## 0. 开考前要齐的五件事：两件已定，三件待合入或待你批准
+## 0. 开考前要齐的六件事：两件已定，四件待合入或待你定
 
 <!-- 问：什么都齐了才能跑？｜短：开考前提｜状态：在做 -->
 
-> **D49（全段只报告）和 D50（稳健性怎么降级）已定；还差你批准、代码冻结、Dev 按 D49 备好代码。**
+> **D49（全段只报告）和 D50（稳健性怎么降级）已定；还差你批准、你定 D50-4、代码冻结、Dev 按 D49 备好代码。**
 
 | # | 事项 | 谁 | 状态 | 说明 |
 | --- | --- | --- | --- | --- |
@@ -34,8 +34,10 @@
 | 3 | 批准一次性检验 | Owner | 待你定 | 2016-01 → 2026-09，只跑一次，判定只看检验段 |
 | 4 | #375、#377 签收合入，代码冻结 | Reviewer、Manager | 待做 | 等 Dev 交同结构随机和急跌仓位 |
 | 5 | Dev 按 D49 备好代码 | Dev | 待做 | 含现行配置 2006–2026 面板、A1 / A2 账本衔接 |
+| 6 | D50-4：有条件再遇欧洲“不支持”怎么办 | Owner | 待你定 | 停在有条件，或再降一级 = 不通过 |
 
 - **D50 定了什么**：稳健性 8 项里任何一项改动后四条判据的总结论翻转，记“很敏感”；主判通过而有一项很敏感，结论是“通过（有条件）”，照常进 6 个月模拟盘，页首写明条件。
+- **判定口径与连续运行**：若冻结代码的检验段是 2016-01 重新起步，报告另列一行：连续运行截出的 2016 年以后那段和判定口径差多少、为什么（D49-1）。
 - **成本加倍最可能触发降级**：设计期成本每年约 1.5 点，判据 ④ 的余量不到这个数时，成本加倍就会让它翻转。
 
 <!-- 接力：前提齐了才跑；跑完先看的，是过没过 -->
@@ -56,14 +58,14 @@
 | ④ 对同仓位基准 | ≥ 0 | 50% | +5.2 点｜过 | −0.1 点｜不过 | 待填｜待填 |
 | 四条全过 | 全部满足才通过 | 30% | 过 | 不过 | 待填 |
 
-| 结论 | 预写的页首结论句（跑完选一版，只填【】） |
-| --- | --- |
-| 通过 | 一次性检验通过：四条判据都过；每年【X】%，比同仓位基准多【Y】点，最大回撤【Z】%。下一步 6 个月模拟盘 |
-| 通过（有条件） | 通过（有条件）：四条判据都过，但对【S?】很敏感，【判据】翻转；照常进模拟盘，先盯这一项 |
-| 不通过 | 一次性检验不通过：判据【编号】没过；每年【X】%，比同仓位基准【多 / 少】【Y】点。按冻结稿如实记录并关闭 |
+| 结论 | 什么时候用（互斥，D50-2） | 预写的页首结论句（只填【】） |
+| --- | --- | --- |
+| 通过 | 四条都过，S1–S8 没有一项翻转 | 四条判据都过；每年【X】%，比同仓位基准多【Y】点，回撤【Z】% |
+| 通过（有条件） | 四条都过，至少一项翻转 | 四条都过；【S?】在【判据】翻转，差【?】（每一项并列） |
+| 不通过 | 四条没有全过；改完能过也不升档 | 判据【编号】没过；每年【X】%，比同仓位基准【多 / 少】【Y】点 |
 
 - **读这块**：框住的是检验段一列，只有它决定结论；左边两列是设计期参照，后五年 ③④ 已经不过。
-- **不加形容词**：通过版本不写“稳定跑赢”，不通过版本不写“接近通过”；差多少直接写数字。
+- **不加形容词**：通过版本不写“稳定跑赢”，不通过版本不写“接近通过”；差多少直接写数字。翻转只在检验段、指数池的主判上判（D50-1）。
 
 <!-- 接力：过没过只是一个字；下一节看这个字稳不稳 -->
 
@@ -87,7 +89,7 @@
 | S6 | 美股 50%、A 股 50% | 超额是不是只来自美股多放 | 待填 |
 | S7 | 每个名额选前 2 | 前 3 是不是挑出来的数字 | 待填 |
 | S8 | 三票全中才算紧张 | 防守门槛是不是挑出来的 | 待填 |
-| 随机 | 同结构随机 1000 次（种子 20261122） | v6 在随机分布里的百分位 | 待填 |
+| 随机 | 同结构随机 1000 次（种子 20261122） | 百分位、每月跑赢随机中位数的比例；组合和两个名额（设计期：第 96.4、54%） | 待填 |
 | 可交易池 | 只买当年真有的场内基金 | 和指数池差多少 | 待填 |
 
 </details>
@@ -103,26 +105,30 @@
 
 > **六块相加 = v6 比 BM-主多出的部分；全段只放在分段旁边，不单独引用（D49）。**
 
-![六块 × 四个五年段：检验段两段决定每一块是稳定、设计期才有还是不稳定](../assets/v6-oneshot/o3-sources.png)
+![检验段瀑布图的空位：从 BM-主走到 v6 净，六块各加减多少](../assets/v6-oneshot/o3w-waterfall.png)
+
+![六块 × 四个五年段 + 全段：读法按 D49-8 顺序贴标签](../assets/v6-oneshot/o3-sources.png)
 
 
 <details>
 <summary>六块 × 四段的空表（跑完填数）</summary>
 
-| 块 | 2006–10 | 2011–15 | 2016–20 | 2021-01 → 2026-09 | 读法标签 |
-| --- | --- | --- | --- | --- | --- |
-| 分红 | 待填 | 待填 | 待填 | 待填 | 待填 |
-| 仓位差 | 待填 | 待填 | 待填 | 待填 | 待填 |
-| 等权倾斜 | 待填 | 待填 | 待填 | 待填 | 待填 |
-| 挑选 | 待填 | 待填 | 待填 | 待填 | 待填 |
-| 防守 | 待填 | 待填 | 待填 | 待填 | 待填 |
-| 成本 | 待填 | 待填 | 待填 | 待填 | 待填 |
+| 块 | 2006–10 | 2011–15 | 2016–20 | 2021-01 → 2026-09 | 全段 | 读法标签 |
+| --- | --- | --- | --- | --- | --- | --- |
+| 分红 | 待填 | 待填 | 待填 | 待填 | 待填 | 待填 |
+| 仓位差 | 待填 | 待填 | 待填 | 待填 | 待填 | 待填 |
+| 等权倾斜 | 待填 | 待填 | 待填 | 待填 | 待填 | 待填 |
+| 挑选 | 待填 | 待填 | 待填 | 待填 | 待填 | 待填 |
+| 防守 | 待填 | 待填 | 待填 | 待填 | 待填 | 待填 |
+| 成本 | 待填 | 待填 | 待填 | 待填 | 待填 | 待填 |
+
+逐年（20 个完整自然年 + 2026 年前 9 个月）另附一张同样的表；A 股名额、美股名额各一张；美股另报“前 3 − SPX”（D48-3）和汇率层。
 
 </details>
 
 - **读法标签按顺序判**（D49-8）：设计期为正、检验段为负或不到 0.5 点 → 设计期才有；否则四段至少三段同号且检验段与设计期同号 → 稳定；其余 → 不稳定。
-- **汇率单独看**：美股名额的人民币收益减美元收益，另报，不进合计（D49-3）。
-- **图**：检验段瀑布图；上面这张格子正绿负橙；A 股、美股名额各一张。
+- **六块首尾相接**：相加 = v6 净 − BM-主全收益；第 ③ 块减去的，就是第 ② 块终点的价格 BM-同仓位（D49-3）。
+- **汇率单独看**：美股名额的人民币收益减美元收益，另报，不进合计，也不进瀑布图。
 
 <!-- 接力：挑选和防守各自是哪几笔赚的？ -->
 
@@ -254,7 +260,7 @@
 
 > **连续性版整套也过四条判据，且检验段 A 股名额里它比 12−1 的月度差均值为正，才在模拟盘换上；要给 A 股挑选“报钱”还需 t ≥ 2.24（冻结稿 §5.3）。**
 
-<!-- 组件：闸门格｜连续性版：设计期全段四条都过；检验段一列开考后填 -->
+<!-- 组件：闸门格｜连续性版：设计期后五年 ③ 不过；检验段一列开考后填 -->
 
 | 编号 | 门槛 | 事先机会 | 2006–10 | 2011–15 | 2016-01 → 2026-09 |
 | --- | --- | --- | --- | --- | --- |
@@ -283,6 +289,9 @@
 | 通过（有条件） | 6 个月前向模拟盘、页首写明条件、每月单列对应的量、小资金起步另批 |
 | 不通过 | 如实记录、关闭 v6、新想法注明第 5 次尝试 |
 
+- **模拟盘里同时只记录、不交易的三个影子**（冻结稿 §7）：结构市才挑选、12−1 与连续性版各一半、连续性版（检验后没换上时）。
+- **两条暂停线**：模拟盘跌破 60 万；或 6 个月对同仓位基准累计落后超过 6 点。碰到就暂停并报告你。
+- **欧洲检验怎么记**：挑选（前 3 对同结构等权）为正、且防守保费不超过 4 点，记“支持”；否则降一级（D50-4），上线前你另批。
 - **三种结论都要写**：第 3 节哪几块“稳定”。钱若主要来自仓位差或汇率，说明赚的是“美股放 60%”，更简单的配置也能拿到；挑选和防守“稳定”，才说明每月四步的规则本身有用。
 
 <details>
